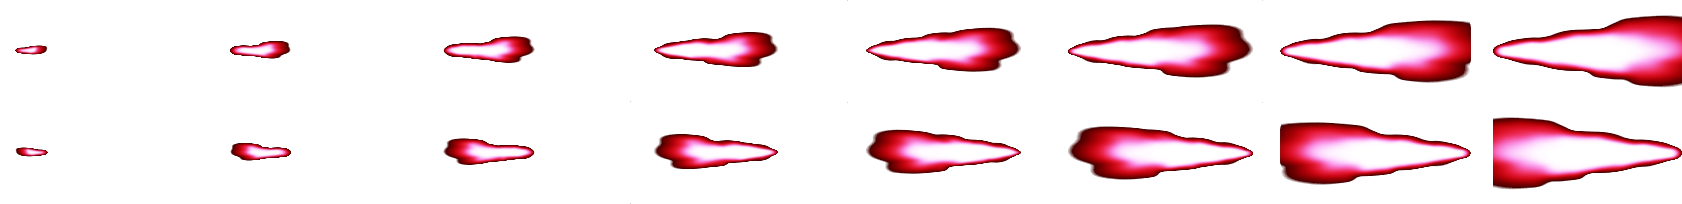
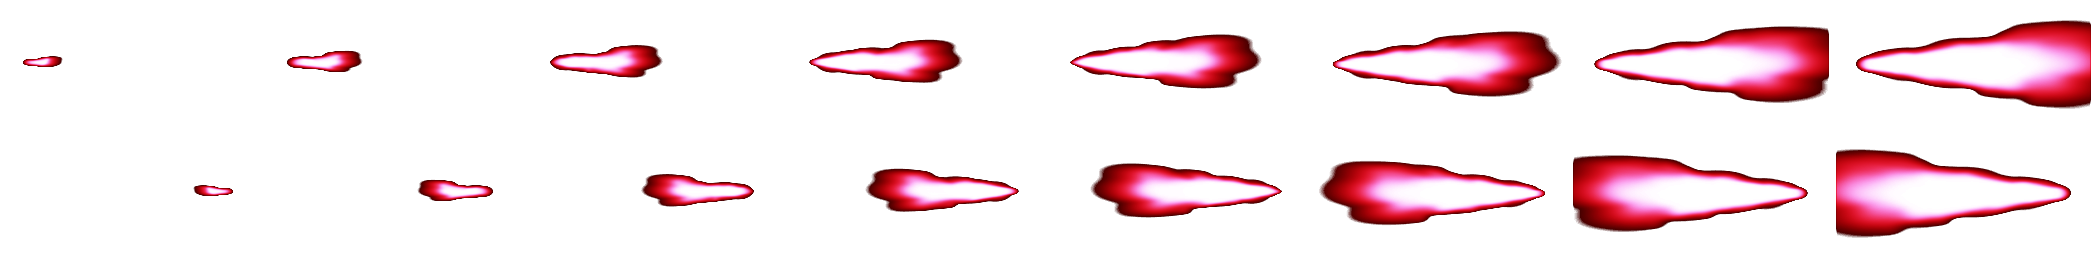
Tneshi 스킬3 완성
스킬3애니메이션완성

diff --git a/Project/Tensi/Tenshi-Skill3-Animation.py b/Project/Tensi/Tenshi-Skill3-Animation.py
@@ -27,9 +27,9 @@ def Tenshi_Skill3():
                     j=(j+1)%12
                 if cheak >6:
                     #플레이어
-                    TenshiSkill3effect.clip_draw(frame*210,102,210,102,Player_X+150,All_Y)
+                    TenshiSkill3effect.clip_draw(frame*260,107,260,120,Player_X+150,All_Y-10)
                     #적
-                    TenshiSkill3effect.clip_draw(frame*210,0,210,102,Enemy_X-150,All_Y)
+                    TenshiSkill3effect.clip_draw(frame*260,0,260,107,Enemy_X-150,All_Y)
                     frame= (frame+1)%7
                 update_canvas()
                 delay(0.13)
